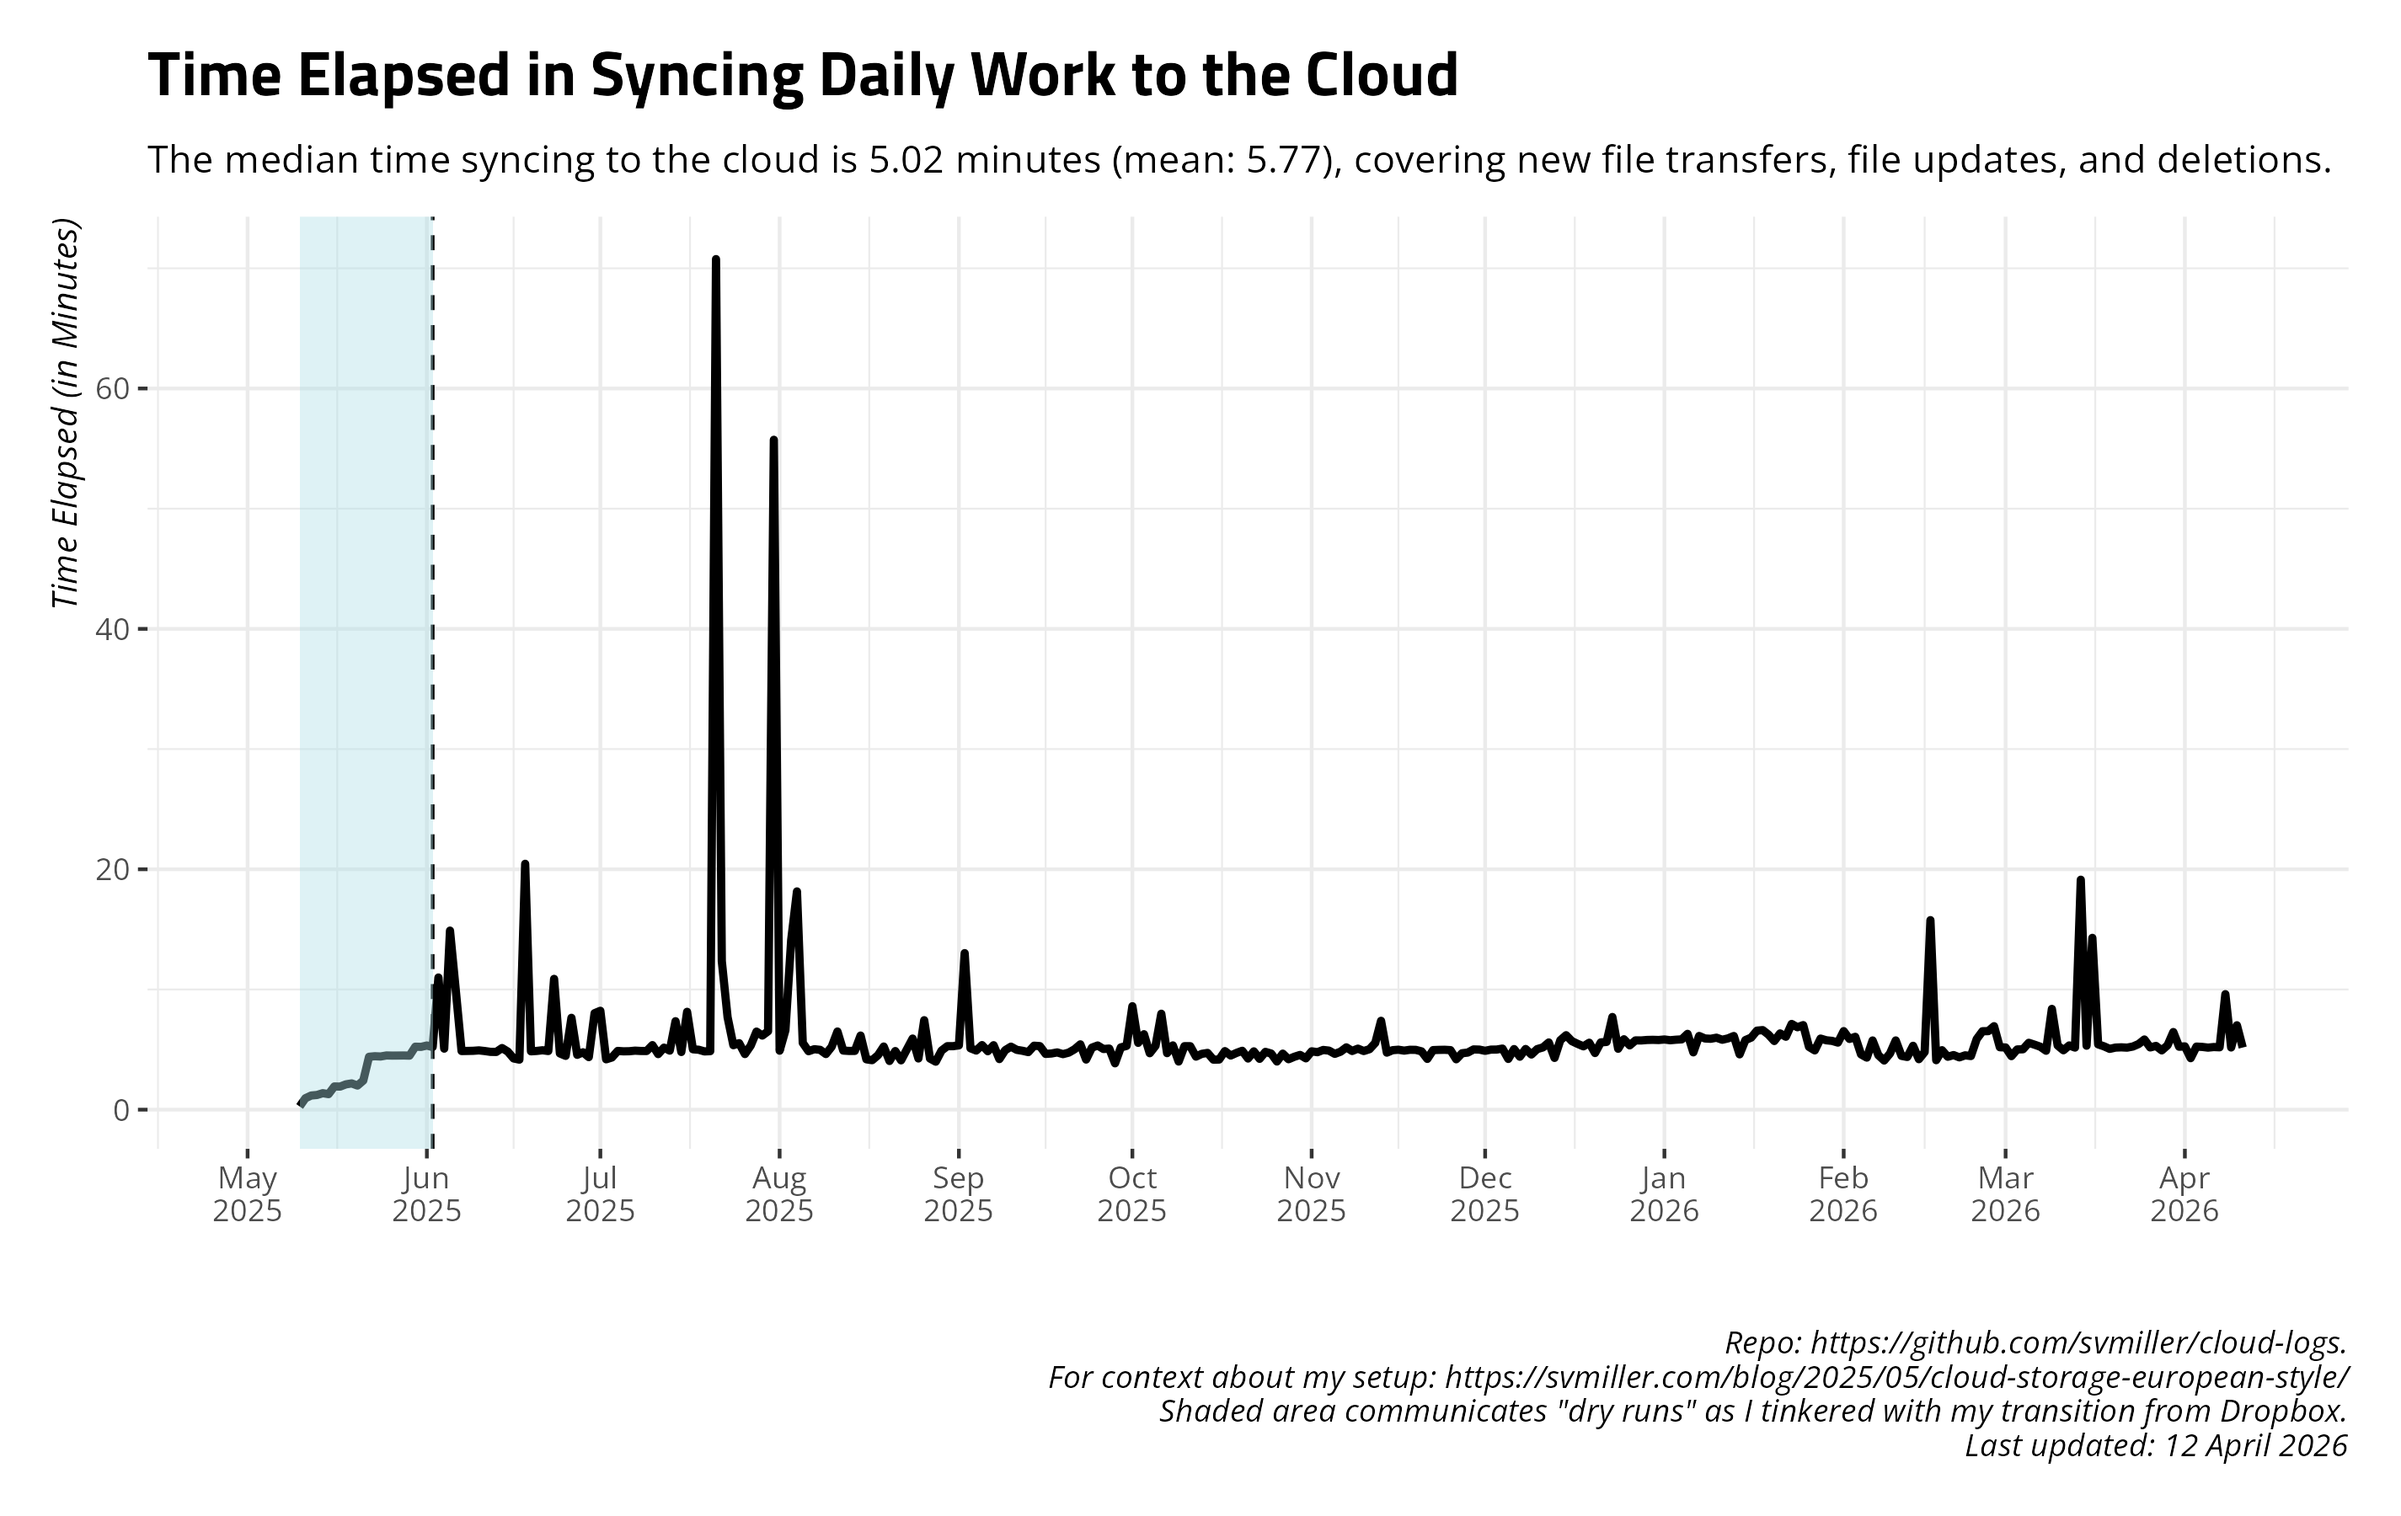
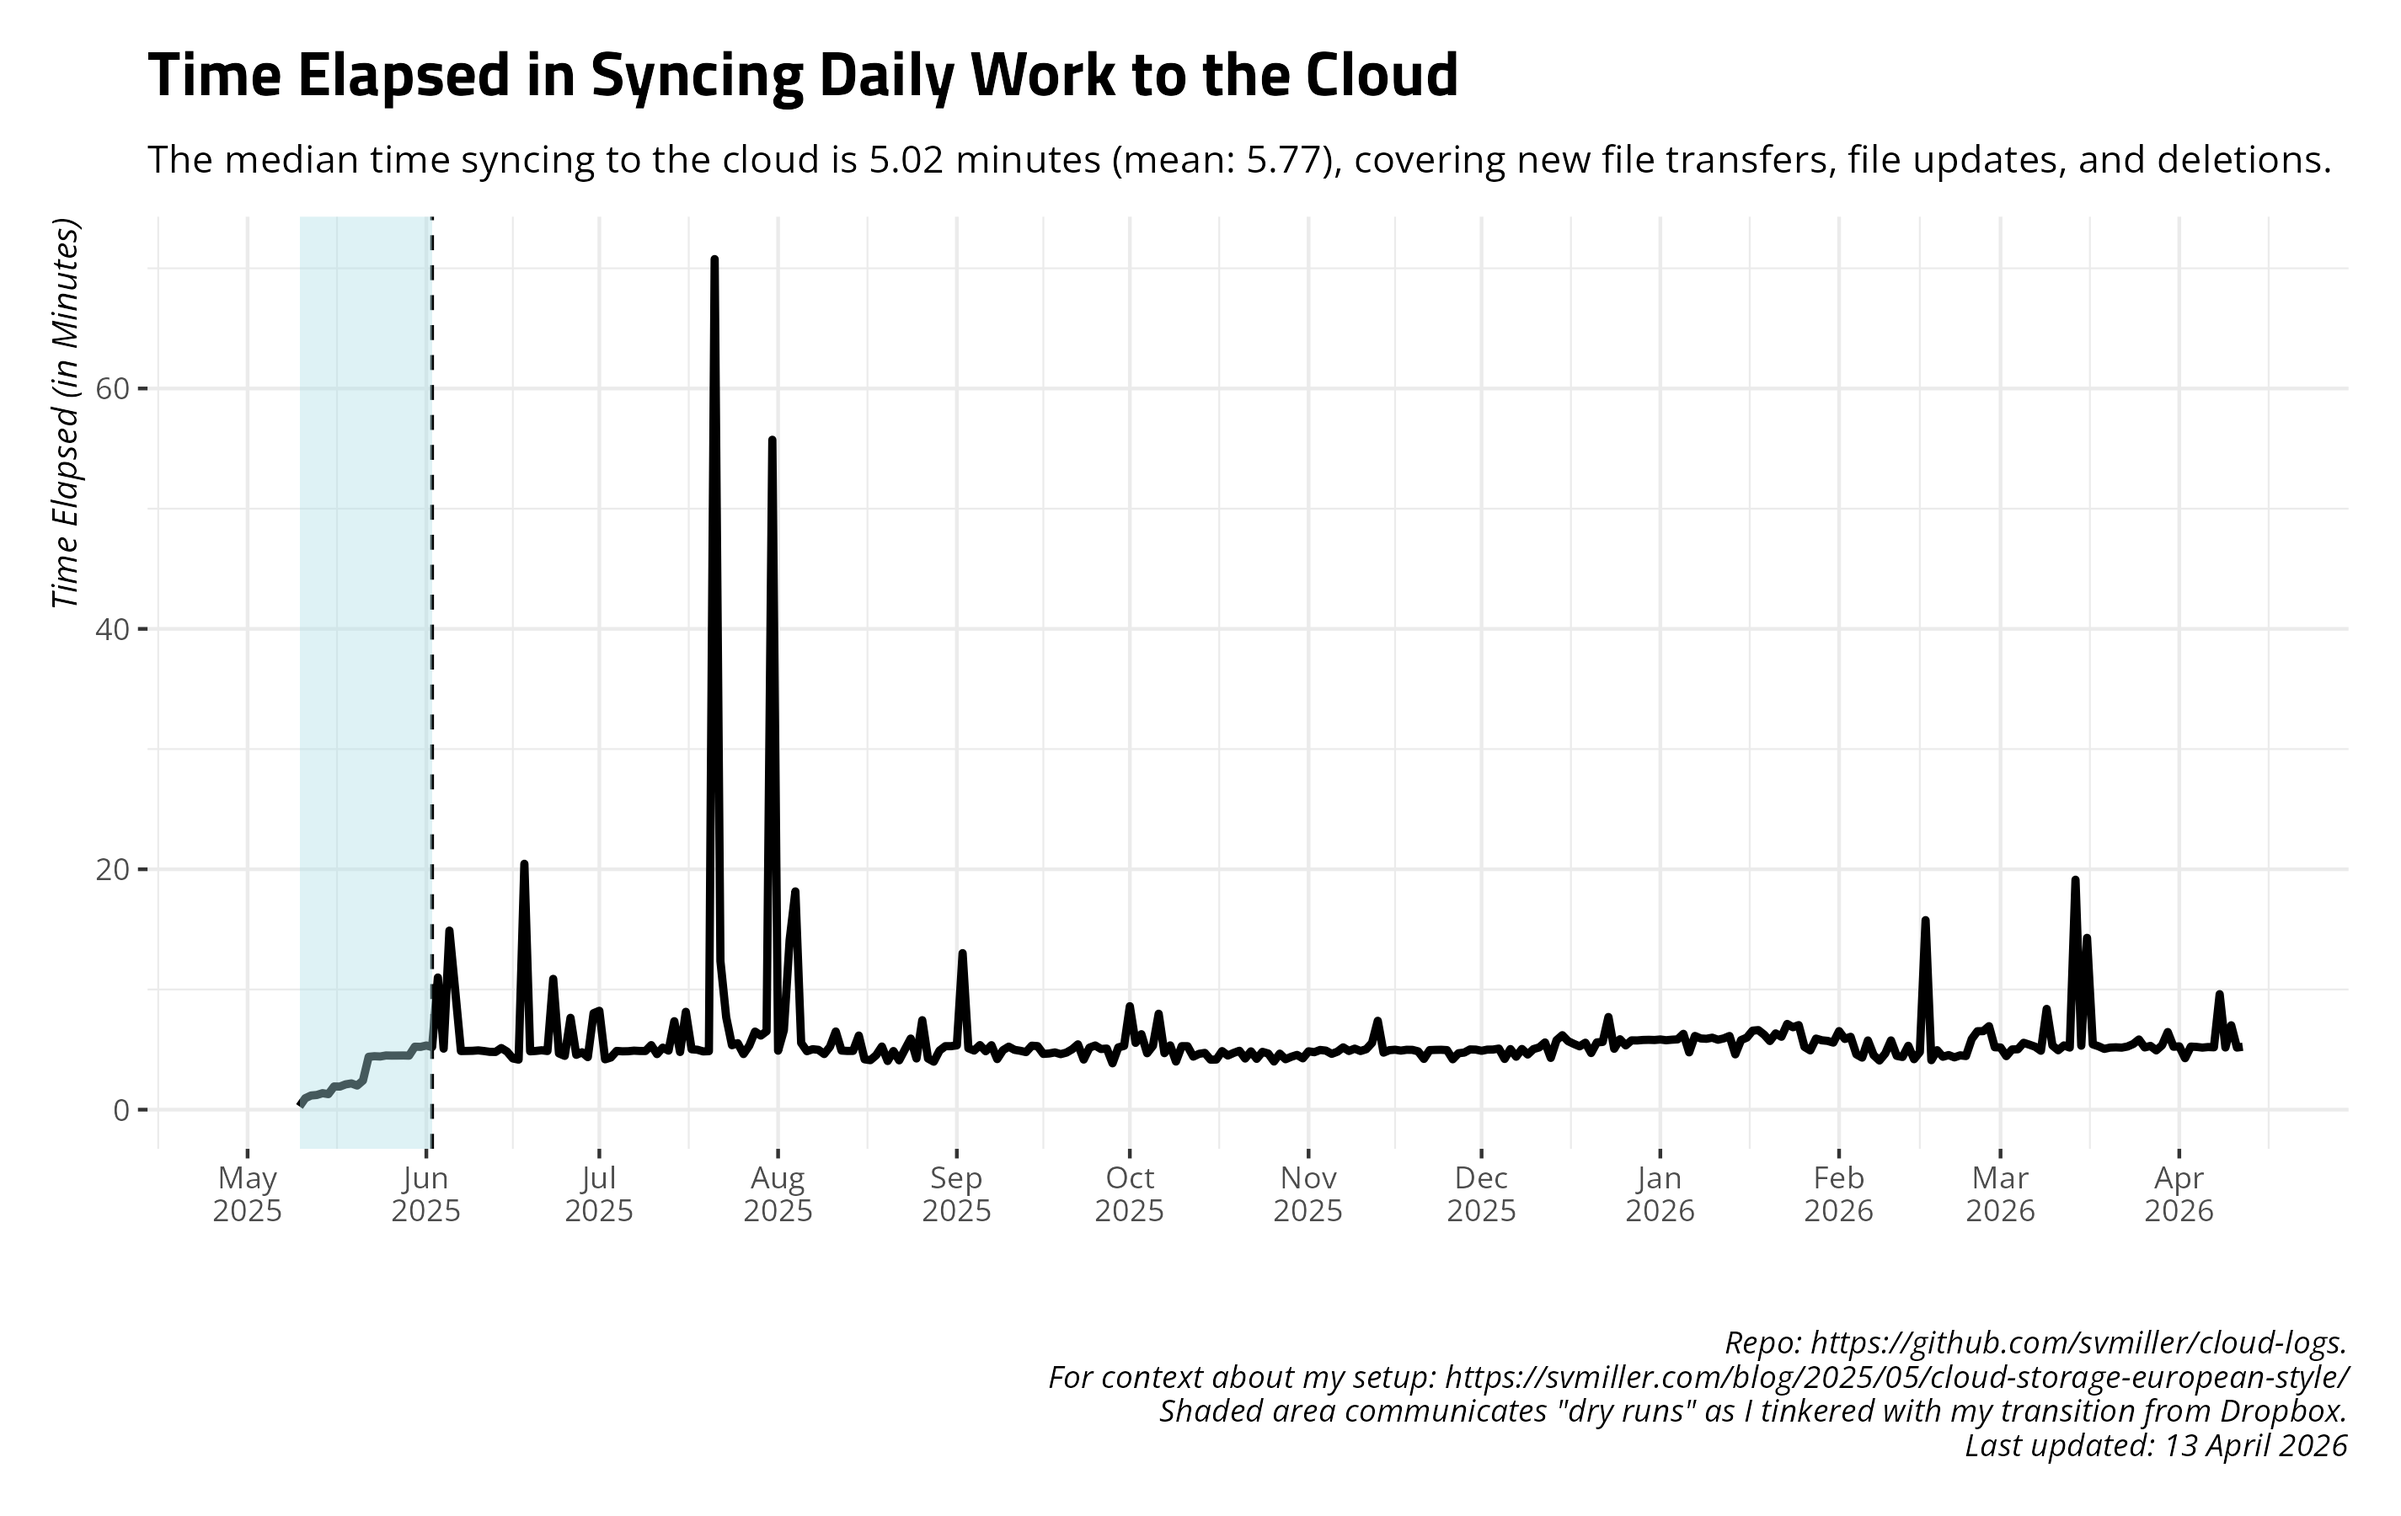
Date: 2026-04-13 09:00:25. Hi mom!

diff --git a/README.md b/README.md
@@ -27,17 +27,17 @@ and uploads to Github.
     #> # A tibble: 14 × 4
     #>    date       ftransfer stransfer   elapsed
     #>    <date>         <dbl> <chr>       <chr>  
-    #>  1 2026-03-29         0 <NA>        5m21.2s
-    #>  2 2026-03-30       872 5.770 GiB   6m27.5s
-    #>  3 2026-03-31         2 21.604 KiB  5m14.1s
-    #>  4 2026-04-01        12 28.383 KiB  5m15.9s
-    #>  5 2026-04-02        23 6.745 MiB   4m16.9s
-    #>  6 2026-04-03         0 <NA>        5m14.8s
-    #>  7 2026-04-04         7 220.335 MiB 5m13.2s
-    #>  8 2026-04-05         0 <NA>        5m9.7s 
-    #>  9 2026-04-06         2 37.269 KiB  5m12.6s
-    #> 10 2026-04-07       287 <NA>        5m11.3s
-    #> 11 2026-04-08         0 <NA>        9m36.6s
-    #> 12 2026-04-09         1 882.068 KiB 5m10.4s
-    #> 13 2026-04-10        26 11.506 GiB  7m1.3s 
-    #> 14 2026-04-11         2 6.212 KiB   5m10.0s
+    #>  1 2026-03-30       872 5.770 GiB   6m27.5s
+    #>  2 2026-03-31         2 21.604 KiB  5m14.1s
+    #>  3 2026-04-01        12 28.383 KiB  5m15.9s
+    #>  4 2026-04-02        23 6.745 MiB   4m16.9s
+    #>  5 2026-04-03         0 <NA>        5m14.8s
+    #>  6 2026-04-04         7 220.335 MiB 5m13.2s
+    #>  7 2026-04-05         0 <NA>        5m9.7s 
+    #>  8 2026-04-06         2 37.269 KiB  5m12.6s
+    #>  9 2026-04-07       287 <NA>        5m11.3s
+    #> 10 2026-04-08         0 <NA>        9m36.6s
+    #> 11 2026-04-09         1 882.068 KiB 5m10.4s
+    #> 12 2026-04-10        26 11.506 GiB  7m1.3s 
+    #> 13 2026-04-11         2 6.212 KiB   5m10.0s
+    #> 14 2026-04-12         9 1.208 MiB   5m14.0s
